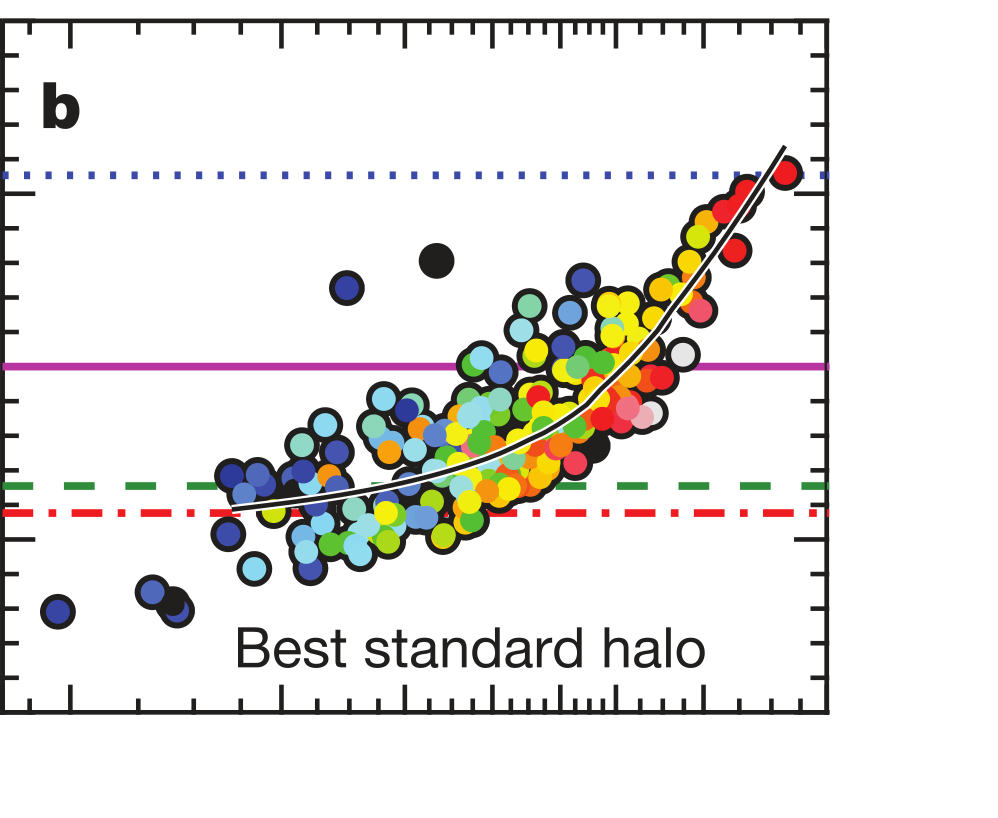
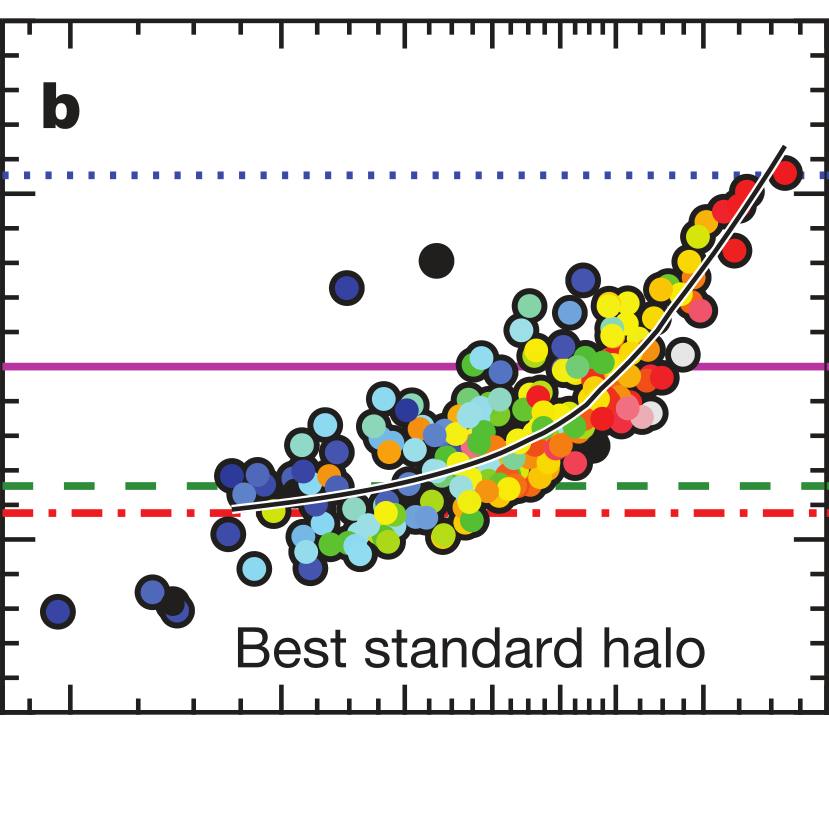
Chagned figure sizes

diff --git a/pages/research.md b/pages/research.md
@@ -35,8 +35,8 @@ The results of that work were two-fold;
 }
 </style>
 <h5><a name="massMGE"></a>&alpha;<sub>dyn.</sub> Mismatch</h5>
-<a href="{{ BASE_PATH }}/assets/plMlMl.png"><img src="{{ BASE_PATH }}/assets/plMlMl.png" style="float: left; width: 50mm; margin-right: 1%; margin-bottom: 0.5em;" /></a>
-<a href="{{ BASE_PATH }}/assets/MlMlModB.png"><img src="{{ BASE_PATH }}/assets/MlMlModB.png" style="float: left; width: 50mm; margin-right: 1%; margin-bottom: 0.5em;" /></a>
+<a href="{{ BASE_PATH }}/assets/plMlMl.png"><img src="{{ BASE_PATH }}/assets/plMlMl.png" style="float: left; width: 80mm; margin-right: 0.5%; margin-bottom: 0.5em;" /></a>
+<a href="{{ BASE_PATH }}/assets/MlMlModB.png"><img src="{{ BASE_PATH }}/assets/MlMlModB.png" style="float: left; width: 80mm; margin-right: 1%; margin-bottom: 0.5em;" /></a>
 <p>Testing the impact of including a spatially-varying <MATH>M<sub>&#9733;</sub>/L</MATH> on the inferred dynamical mismatch parameter, <MATH>&alpha;<sub>dyn.</sub></MATH>. This parameter measures the offset between the dynamically-inferred and stellar-population-inferred galaxy mass, in effect constraining the accuracy of the assumed stellar Initial Mass Function (IMF). The case with the spatially-varying <MATH>M<sub>&#9733;</sub>/L</MATH> from my work is shown on the left, while the original result, for a spatially-constant <MATH>M<sub>&#9733;</sub>/L</MATH>, is shown on the right (<a href="https://ui.adsabs.harvard.edu/abs/2012Natur.484..485C/abstract">Cappellari et al., 2012</a>). This result shows that, while the dynamical models with a spatially-varying <MATH>M<sub>&#9733;</sub>/L</MATH> exhibit a systematic offset to lower <MATH>&alpha;<sub>dyn.</sub></MATH> values, importantly the non-linear trend with mass remains. This was the main goal of my <a href="http://hdl.handle.net/1959.14/1185049">Master's Thesis</a>.</p>
 <h5><a name="bhc"></a>Total-Mass Density Profile Slopes</h5>
 <p><a href="{{ BASE_PATH }}/assets/sDist-1.png"><img src="{{ BASE_PATH }}/assets/sDist-1.png" style="float: left; width: 30%; margin-right: 1%; margin-bottom: 0.5em;" /></a>In addition to IMF constraints, and owing to the specific dynamical model that was employed for the above result, we found interesting correlations with the total (dynamical) mass of galaxies. Rather than applying some baryonic+dark mass model, which requires assumptions about both the baryonic and dark-matter distributions, we constrained the total dynamical mass directly using the observed stellar kinematics. This allowed for robust measurements of the profile of the total-mass density as an explicit parameter of the dynamical models, and exploiting the large sample of galaxies, we built up statistically-significant distributions. Most notably, we find that the distribution of slopes of the profiles of the total-mass density is more concentrated than that of the stellar-mass density, and is centred on a nearly-isothermal value of <MATH>&gamma;<sub>tot.</sub> &sim; -2.1</MATH> (<a href="https://ui.adsabs.harvard.edu/abs/2017MNRAS.467.1397P/abstract">Poci et al., 2017</a>). This implies that the total mass is a critical parameter for galaxy formation, irrespective of the stellar or dark-matter distributions individually.</p><br clear="all" />
